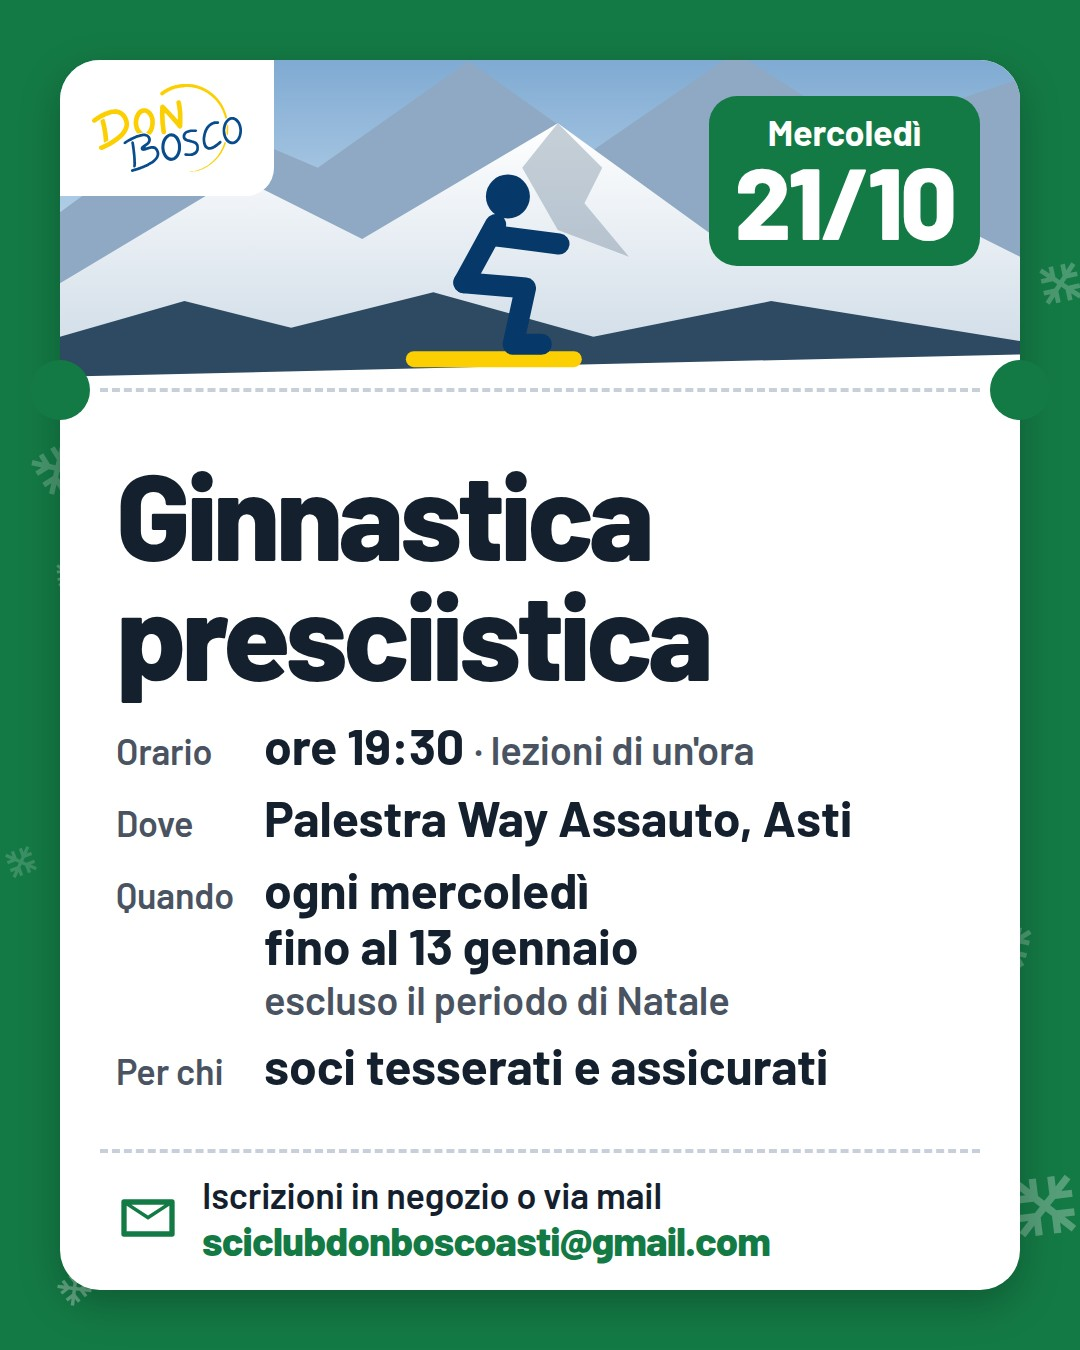
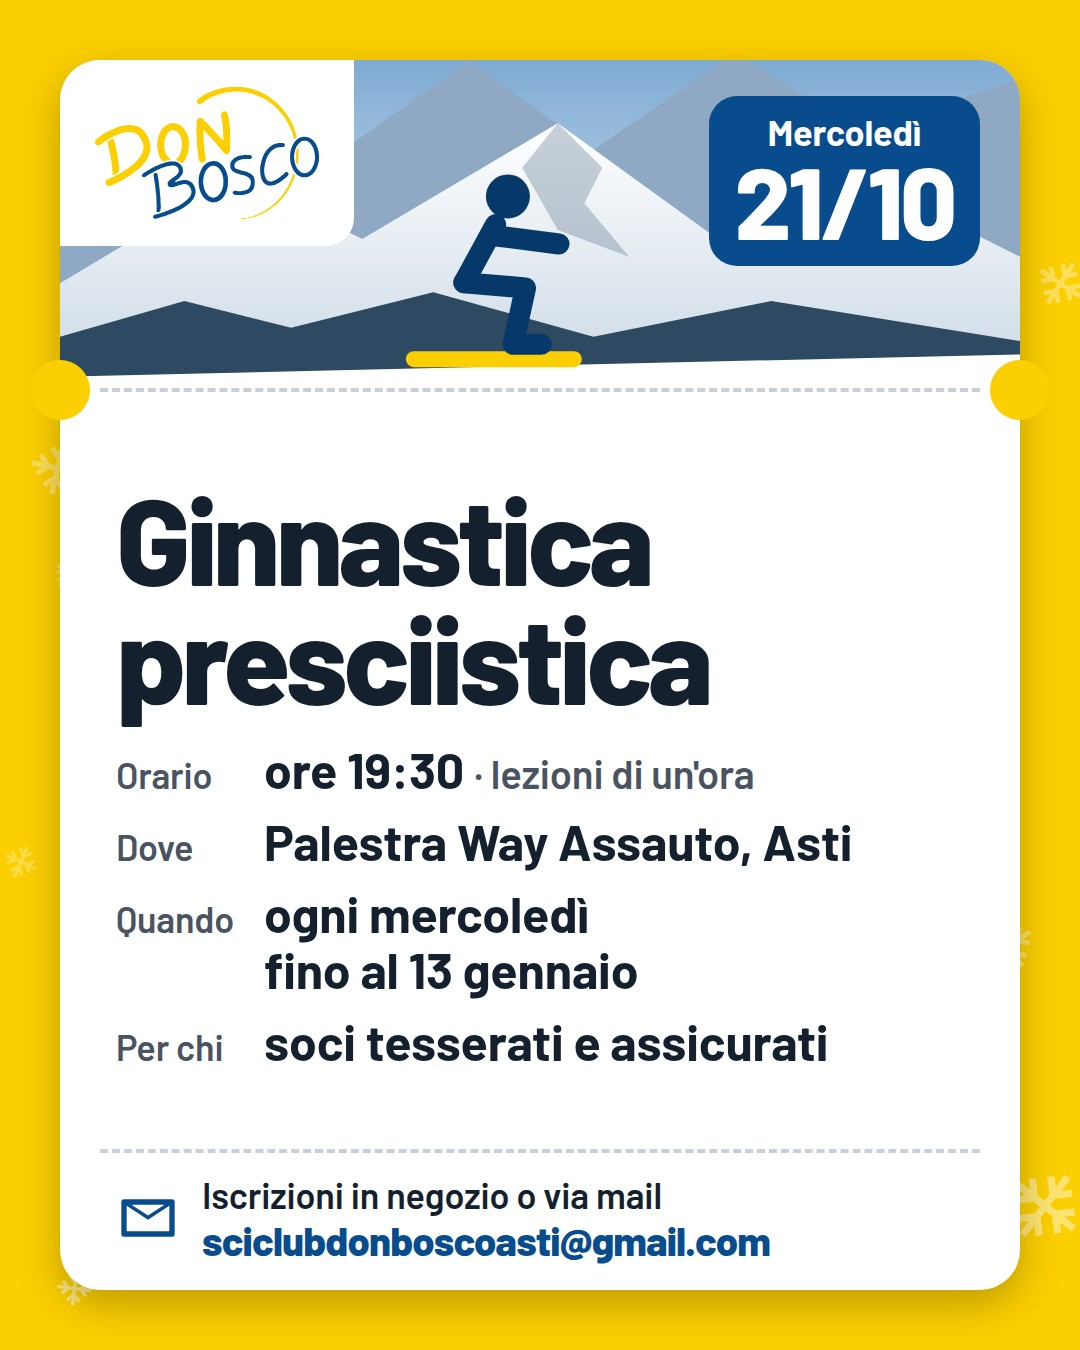
docs(social): presciistica, proposte riviste [skip ci]
A sul giallo, che diventa il colore di tutti i corsi, con gli accenti blu
del club. B senza "Torna il corso di", senza la linea del tempo e la pausa
di Natale: una frase sola, "Tutti i mercoledì fino al 13 gennaio". Logo più
grande in tutte e tre (150 px), perché si vedeva poco. JPEG rifatti.

diff --git a/grafica/proposte-presciistica-2026/sorgenti/b-calendario.html b/grafica/proposte-presciistica-2026/sorgenti/b-calendario.html
@@ -7,10 +7,10 @@
 <link rel="stylesheet" href="comune.css">
 <style>
 /* B · Calendario. Il messaggio è la data: un foglio di calendario a strappo
- * con il primo mercoledì, e sotto una linea del tempo da ottobre a gennaio
- * con la pausa di Natale. Fondo blu del club con la neve e le montagne di
- * Montagna, di sera. La pausa sulla linea è indicativa: la mail non dà le date. */
+ * con il primo mercoledì, e sotto in una frase fino a quando dura. Fondo blu
+ * del club con la neve e le montagne di Montagna, di sera. */
 html { --k: 1; }
+.contenuto { justify-content: space-between; }
 html.story { --k: 1.1; }
 .cv { background: var(--blu); }
 .monti { position: absolute; left: 0; right: 0; bottom: 0; width: 1080px; height: 330px; }
@@ -19,20 +19,18 @@ html.story .monti { height: 520px; }
   display: flex; flex-direction: column; gap: calc(34px * var(--k)); }
 html.story .contenuto { top: 262px; bottom: 350px; justify-content: space-between; gap: 0; }
 /* Story: i testi piccoli a corpo fisso, per non scendere sotto i 44 px. */
-html.story .pill, html.story .linea .sopra, html.story .dove .et { font-size: 44px; }
-html.story .linea .et.sotto { font-size: 46px; }
+html.story .pill, html.story .dove .et { font-size: 44px; }
 html.story .foglio .num { font-size: 240px; }
 html.story .titolo { font-size: 112px; }
 html.story .centro { padding-top: 26px; }
 
 .testa { display: flex; justify-content: space-between; align-items: flex-start; }
 .testa .logo-box { border-radius: 22px; padding: 12px 18px; }
-.testa .logo-box img { height: calc(96px * var(--k)); }
+.testa .logo-box img { height: calc(150px * var(--k)); }
 .pill { background: var(--giallo); color: var(--blu-dark); border-radius: 999px; font-size: calc(36px * var(--k));
   font-weight: 800; padding: calc(12px * var(--k)) calc(30px * var(--k)); margin-top: 18px; }
 
 .titolo { color: #fff; font-size: calc(108px * var(--k)); font-weight: 800; letter-spacing: -.035em; line-height: .95; }
-.titolo small { display: block; font-size: calc(44px * var(--k)); letter-spacing: -.01em; color: var(--giallo); margin-bottom: calc(10px * var(--k)); }
 
 .centro { display: flex; gap: calc(44px * var(--k)); align-items: center; }
 /* Il foglio: testata verde (il colore dei corsi), due anelli, il giorno grande. */
@@ -50,20 +48,11 @@ html.story .centro { padding-top: 26px; }
 .dove .luogo { font-size: calc(64px * var(--k)); font-weight: 800; line-height: 1; letter-spacing: -.025em; margin-top: 8px; }
 .dove .nota { font-size: calc(40px * var(--k)); font-weight: 600; margin-top: calc(22px * var(--k)); line-height: 1.2; color: #E7EFF7; }
 
-/* Linea del tempo: dal 21/10 (giorno 0) al 13/01 (giorno 84), con la pausa
- * di Natale fra il giorno 62 (22/12) e il 78 (7/1), su 100 parti. */
-.durata { background: var(--blu-dark); border-radius: 28px; padding: calc(28px * var(--k)) 40px calc(26px * var(--k)); color: #fff;
+/* Fino a quando dura: una frase sola, senza date di pausa. */
+.durata { background: var(--blu-dark); border-radius: 28px; padding: calc(30px * var(--k)) 40px; color: #fff;
   box-shadow: 0 12px 30px rgba(0,0,0,.3); }
-.durata .frase { font-size: calc(48px * var(--k)); font-weight: 800; letter-spacing: -.02em; line-height: 1.1; }
+.durata .frase { font-size: calc(58px * var(--k)); font-weight: 800; letter-spacing: -.02em; line-height: 1.1; }
 .durata .frase em { font-style: normal; color: var(--giallo); }
-.linea { position: relative; height: calc(150px * var(--k)); margin: calc(8px * var(--k)) 14px 0; }
-.linea .tratto { position: absolute; top: calc(70px * var(--k)); height: 16px; background: #fff; border-radius: 8px; }
-.linea .pausa { position: absolute; top: calc(70px * var(--k)); height: 16px; border-top: 5px dashed var(--giallo); border-bottom: 5px dashed var(--giallo); }
-.linea .punto { position: absolute; top: calc(78px * var(--k)); width: calc(40px * var(--k)); height: calc(40px * var(--k));
-  margin: calc(-20px * var(--k)) 0 0 calc(-20px * var(--k)); border-radius: 50%; background: var(--giallo); border: 6px solid #fff; }
-.linea .et { position: absolute; font-size: calc(38px * var(--k)); font-weight: 700; white-space: nowrap; }
-.linea .sotto { top: calc(104px * var(--k)); }
-.linea .sopra { top: 0; color: var(--giallo); font-size: calc(36px * var(--k)); }
 </style>
 </head>
 <body>
@@ -80,7 +69,7 @@ html.story .centro { padding-top: 26px; }
       <div class="logo-box"><img src="../../logo/logo_sciclubdonbosco.svg" alt="Sci Club Don Bosco"></div>
       <div class="pill">Riservato ai soci</div>
     </div>
-    <div class="titolo"><small>Torna il corso di</small>Ginnastica presciistica</div>
+    <div class="titolo">Ginnastica presciistica</div>
     <div class="centro">
       <div class="foglio">
         <div class="anello" style="left:26%"></div><div class="anello" style="right:26%"></div>
@@ -97,17 +86,7 @@ html.story .centro { padding-top: 26px; }
       </div>
     </div>
     <div class="durata">
-      <div class="frase">Poi <em>tutti i mercoledì</em> fino al 13 gennaio</div>
-      <div class="linea">
-        <div class="tratto" style="left:0;width:73.8%"></div>
-        <div class="pausa" style="left:73.8%;width:19%"></div>
-        <div class="tratto" style="left:92.8%;width:7.2%"></div>
-        <div class="punto" style="left:0"></div>
-        <div class="punto" style="left:100%"></div>
-        <div class="et sotto" style="left:-14px">21 ottobre</div>
-        <div class="et sotto" style="right:-14px">13 gennaio</div>
-        <div class="et sopra" style="right:-14px">pausa di Natale</div>
-      </div>
+      <div class="frase">Tutti i <em>mercoledì</em> <span style="white-space:nowrap">fino al 13 gennaio</span></div>
     </div>
   </div>
 </div>

diff --git a/grafica/proposte-presciistica-2026/sorgenti/a-biglietto.html b/grafica/proposte-presciistica-2026/sorgenti/a-biglietto.html
@@ -7,13 +7,15 @@
 <link rel="stylesheet" href="comune.css">
 <style>
 /* A · Biglietto. Evoluzione di Ritocco: il biglietto bianco sul colore della
- * categoria (il verde dei corsi), in 4:5 come Montagna. Al posto della foto
+ * categoria, in 4:5 come Montagna. I corsi passano al giallo del logo (--corso):
+ * vale per tutti i corsi, non solo per la presciistica, e sul giallo gli
+ * accenti sono il blu del club. Al posto della foto
  * della meta, un paesaggio disegnato con la figura dell'esercizio. Story:
  * stesso biglietto; logo e bollo scendono sotto la fascia del profilo (250 px),
  * il biglietto finisce sopra quella della risposta (340 px). */
-html { --k: 1; --m: 60px; --su: 0px; --scena: 330px; }
+html { --k: 1; --m: 60px; --su: 0px; --scena: 330px; --corso: var(--giallo); --accento: var(--blu); }
 html.story { --k: 1.3; --su: 190px; --scena: 500px; }
-.cv { background: var(--verde); }
+.cv { background: var(--corso); }
 .biglietto { position: absolute; left: var(--m); right: var(--m); top: var(--m); bottom: var(--m);
   background: #fff; border-radius: 40px; overflow: hidden; display: flex; flex-direction: column;
   box-shadow: 0 14px 40px rgba(0,0,0,.25); }
@@ -25,8 +27,8 @@ html.story .biglietto { bottom: 340px; }
 html.story .scena .figura { left: 330px; bottom: 26px; height: calc(var(--scena) * .5); }
 .scena .logo-box { position: absolute; left: 0; top: var(--su); padding: 18px 26px; border-radius: 0 0 28px 0; }
 html.story .scena .logo-box { border-top-right-radius: 28px; }
-.scena .logo-box img { height: calc(100px * var(--k)); }
-.bollo { position: absolute; right: 40px; top: calc(var(--su) + 36px); background: var(--verde); color: #fff;
+.scena .logo-box img { height: calc(150px * var(--k)); }
+.bollo { position: absolute; right: 40px; top: calc(var(--su) + 36px); background: var(--accento); color: #fff;
   border-radius: calc(28px * var(--k)); text-align: center; padding: calc(14px * var(--k)) calc(26px * var(--k)) calc(10px * var(--k)); }
 .bollo .g { font-size: calc(36px * var(--k)); font-weight: 700; }
 .bollo .n { font-size: calc(100px * var(--k)); font-weight: 800; line-height: .95; letter-spacing: -.03em; padding-bottom: calc(8px * var(--k)); }
@@ -35,7 +37,7 @@ html.story .scena .logo-box { border-top-right-radius: 28px; }
  * sopra i bordi (stanno nella tela, non nel biglietto, che non deve sbordare). */
 .taglio { position: relative; height: 0; flex: 0 0 auto; }
 .taglio i { position: absolute; left: 40px; right: 40px; top: -2px; border-top: 4px dashed var(--filo); }
-.luna { position: absolute; top: calc(var(--m) + var(--scena) - 30px); width: 60px; height: 60px; border-radius: 50%; background: var(--verde); }
+.luna { position: absolute; top: calc(var(--m) + var(--scena) - 30px); width: 60px; height: 60px; border-radius: 50%; background: var(--corso); }
 
 .testo { flex: 1 1 auto; display: flex; flex-direction: column; justify-content: center;
   gap: calc(24px * var(--k)); padding: calc(24px * var(--k)) 56px calc(16px * var(--k)); }
@@ -55,16 +57,16 @@ html.story .fatti dd { font-size: 56px; }
   padding: calc(20px * var(--k)) 16px calc(26px * var(--k)); display: flex; gap: 22px; align-items: center; }
 .iscrizioni svg { flex: none; width: calc(64px * var(--k)); height: calc(64px * var(--k)); }
 .iscrizioni div { font-size: calc(36px * var(--k)); font-weight: 600; line-height: 1.2; }
-.iscrizioni b { display: block; font-size: calc(40px * var(--k)); font-weight: 800; color: var(--verde); letter-spacing: -.02em; }
+.iscrizioni b { display: block; font-size: calc(40px * var(--k)); font-weight: 800; color: var(--accento); letter-spacing: -.02em; }
 
 .firma { display: none; }
 html.story .firma { display: block; position: absolute; left: 0; right: 0; top: 1640px; text-align: center;
-  color: #fff; font-size: 46px; font-weight: 800; letter-spacing: .12em; }
+  color: var(--blu-dark); font-size: 46px; font-weight: 800; letter-spacing: .12em; }
 </style>
 </head>
 <body>
 <div class="cv">
-  <div class="neve" data-neve></div>
+  <div class="neve" data-neve=".5"></div>
   <div class="biglietto">
     <div class="scena">
       <!-- Paesaggio disegnato (come photo() di social-templates.js), largo: il
@@ -100,12 +102,12 @@ html.story .firma { display: block; position: absolute; left: 0; right: 0; top: 
       <dl class="fatti">
         <dt>Orario</dt><dd>ore 19:30 <span class="nota">· lezioni di un'ora</span></dd>
         <dt>Dove</dt><dd>Palestra Way Assauto, Asti</dd>
-        <dt>Quando</dt><dd>ogni mercoledì <span class="nw">fino al 13 gennaio</span> <span class="nota riga">escluso il periodo di Natale</span></dd>
+        <dt>Quando</dt><dd>ogni mercoledì <span class="nw">fino al 13 gennaio</span></dd>
         <dt>Per chi</dt><dd>soci tesserati e assicurati</dd>
       </dl>
     </div>
     <div class="iscrizioni">
-      <svg viewBox="0 0 24 24" fill="#147A45" aria-hidden="true"><path d="M3 5h18a1 1 0 0 1 1 1v12a1 1 0 0 1-1 1H3a1 1 0 0 1-1-1V6a1 1 0 0 1 1-1zm1 2.4V17h16V7.4l-8 5.3-8-5.3zM5.8 7 12 11.1 18.2 7H5.8z"/></svg>
+      <svg viewBox="0 0 24 24" fill="#084C8D" aria-hidden="true"><path d="M3 5h18a1 1 0 0 1 1 1v12a1 1 0 0 1-1 1H3a1 1 0 0 1-1-1V6a1 1 0 0 1 1-1zm1 2.4V17h16V7.4l-8 5.3-8-5.3zM5.8 7 12 11.1 18.2 7H5.8z"/></svg>
       <div>Iscrizioni in negozio o via mail<b>sciclubdonboscoasti@gmail.com</b></div>
     </div>
   </div>

diff --git a/grafica/proposte-presciistica-2026/sorgenti/panoramica.html b/grafica/proposte-presciistica-2026/sorgenti/panoramica.html
@@ -24,9 +24,9 @@ img + img { margin-top: 22px; }
   <h1>Ginnastica presciistica · tre proposte</h1>
   <div class="sotto">Sopra il post (4:5), sotto la story</div>
   <div class="colonne">
-    <div><h2><b>A</b> · Biglietto</h2><div class="idea">Il biglietto di Ritocco, verde dei corsi, tutto scritto</div>
+    <div><h2><b>A</b> · Biglietto</h2><div class="idea">Il biglietto di Ritocco, giallo dei corsi, tutto scritto</div>
       <img src="../a-biglietto-post.jpg" alt=""><img src="../a-biglietto-story.jpg" alt=""></div>
-    <div><h2><b>B</b> · Calendario</h2><div class="idea">Il foglio del 21 e la linea fino al 13 gennaio</div>
+    <div><h2><b>B</b> · Calendario</h2><div class="idea">Il foglio del 21, poi tutti i mercoledì fino al 13 gennaio</div>
       <img src="../b-calendario-post.jpg" alt=""><img src="../b-calendario-story.jpg" alt=""></div>
     <div><h2><b>C</b> · Divano</h2><div class="idea">Manifesto giallo: «Alzati dal divano!»</div>
       <img src="../c-divano-post.jpg" alt=""><img src="../c-divano-story.jpg" alt=""></div>

diff --git a/grafica/proposte-presciistica-2026/sorgenti/c-divano.html b/grafica/proposte-presciistica-2026/sorgenti/c-divano.html
@@ -17,7 +17,7 @@ html.story .contenuto { top: 262px; bottom: 352px; }
 
 .testa { flex: none; display: flex; justify-content: space-between; align-items: flex-start; }
 .testa .logo-box { border-radius: 22px; padding: 12px 18px; }
-.testa .logo-box img { height: 96px; }
+.testa .logo-box img { height: 150px; }
 .pill { background: var(--blu-dark); color: #fff; border-radius: 999px; font-size: 36px; font-weight: 800; padding: 12px 30px; margin-top: 18px; }
 html.story .pill { font-size: 44px; }
 

diff --git a/grafica/proposte-presciistica-2026/README.md b/grafica/proposte-presciistica-2026/README.md
@@ -5,6 +5,11 @@
 Tre grafiche per annunciare il corso su Instagram e Facebook. Per ognuna:
 il **post** 4:5 (1080×1350, come Montagna) e la **story** (1080×1920).
 
+**Rivista il 10/10** dopo il primo giro: A sul giallo, che diventa il colore
+di tutti i corsi; B senza "Torna il corso di", senza la linea del tempo e la
+pausa di Natale, con la frase "Tutti i mercoledì fino al 13 gennaio"; logo
+più grande in tutte e tre (150 px invece di 96–100).
+
 - Testi presi dalla mail `Mail per Presciistica.docx`, niente di aggiunto:
   niente prezzo, niente nome dell'istruttore, niente telefoni.
 - Testo grande: almeno 34 px nel post e 44 px nella story.
@@ -23,13 +28,15 @@ copiare e da un'immagine no.
 
 <img src="a-biglietto-post.jpg" width="49%"> <img src="a-biglietto-story.jpg" width="49%">
 
-**Idea.** È Ritocco portato al 4:5: il biglietto bianco sul verde dei corsi,
-con il bollo della data in alto. Al posto della foto, il paesaggio disegnato
+**Idea.** È Ritocco portato al 4:5: il biglietto bianco sul giallo dei corsi,
+con il bollo blu della data in alto. Il giallo vale per tutti i corsi (in
+Genera post andrebbe cambiato il colore della categoria corso), e sul giallo
+gli accenti sono il blu del club. Al posto della foto, il paesaggio disegnato
 con una figura in posizione da sci. È la più vicina a quello che c'è già e
 può diventare il modello "corso" di Genera post.
 
 **Nell'immagine:** tutto. Titolo, primo giorno, orario e durata, palestra,
-ogni mercoledì fino al 13 gennaio escluso Natale, per chi, iscrizioni e mail.
+ogni mercoledì fino al 13 gennaio, per chi, iscrizioni e mail.
 
 **Nel testo:** l'invito, l'istruttore dello scorso anno, le stesse
 informazioni scritte per esteso.
@@ -61,19 +68,16 @@ Vi aspettiamo numerosi!
 <img src="b-calendario-post.jpg" width="49%"> <img src="b-calendario-story.jpg" width="49%">
 
 **Idea.** Il messaggio è la data. Un foglio di calendario con il 21 ottobre
-e sotto una linea del tempo fino al 13 gennaio, con la pausa di Natale.
+e sotto una frase sola: "Tutti i mercoledì fino al 13 gennaio".
 Fondo blu del club con neve e montagne, come Montagna.
 
 **Nell'immagine:** primo giorno e ora, palestra, durata della lezione,
-tutti i mercoledì fino al 13 gennaio, pausa di Natale, "Riservato ai soci".
+tutti i mercoledì fino al 13 gennaio, "Riservato ai soci".
 
 **Nel testo:** soci tesserati e assicurati, istruttore, come iscriversi e mail.
 
 **Perché:** chi salva l'immagine come promemoria vede subito giorno, ora e
 fino a quando dura. Come iscriversi serve una volta sola: sta nel testo.
-
-**Da controllare:** sulla linea la pausa di Natale è indicativa (fine
-dicembre – inizio gennaio), perché la mail non dà le date precise.
 
 ```text
 📅 Segnatevi il mercoledì: dal 21 ottobre torna la ginnastica presciistica!

diff --git a/TODO.md b/TODO.md
@@ -52,6 +52,9 @@ segnala il socio non trovato; saldo di chiusura non più leggibile senza login.
 
 ## Social
 
+- [ ] Scegliere fra le proposte della presciistica (`grafica/proposte-presciistica-2026/`,
+      riviste il 10/10). Se va A: i corsi passano al giallo in Genera post (colore della
+      categoria corso in `web/social-templates.js`, accenti blu sul giallo) e logo più grande.
 - [ ] Provare le grafiche nuove con foto vere e con le campagne sponsor.
 - [ ] Inserire i contatti veri in Social > Impostazioni > Contatti e spuntarli nei post.
 - [ ] Caricare lo sponsor 958 Santero e la sua campagna (loghi in `social/santero/`).
